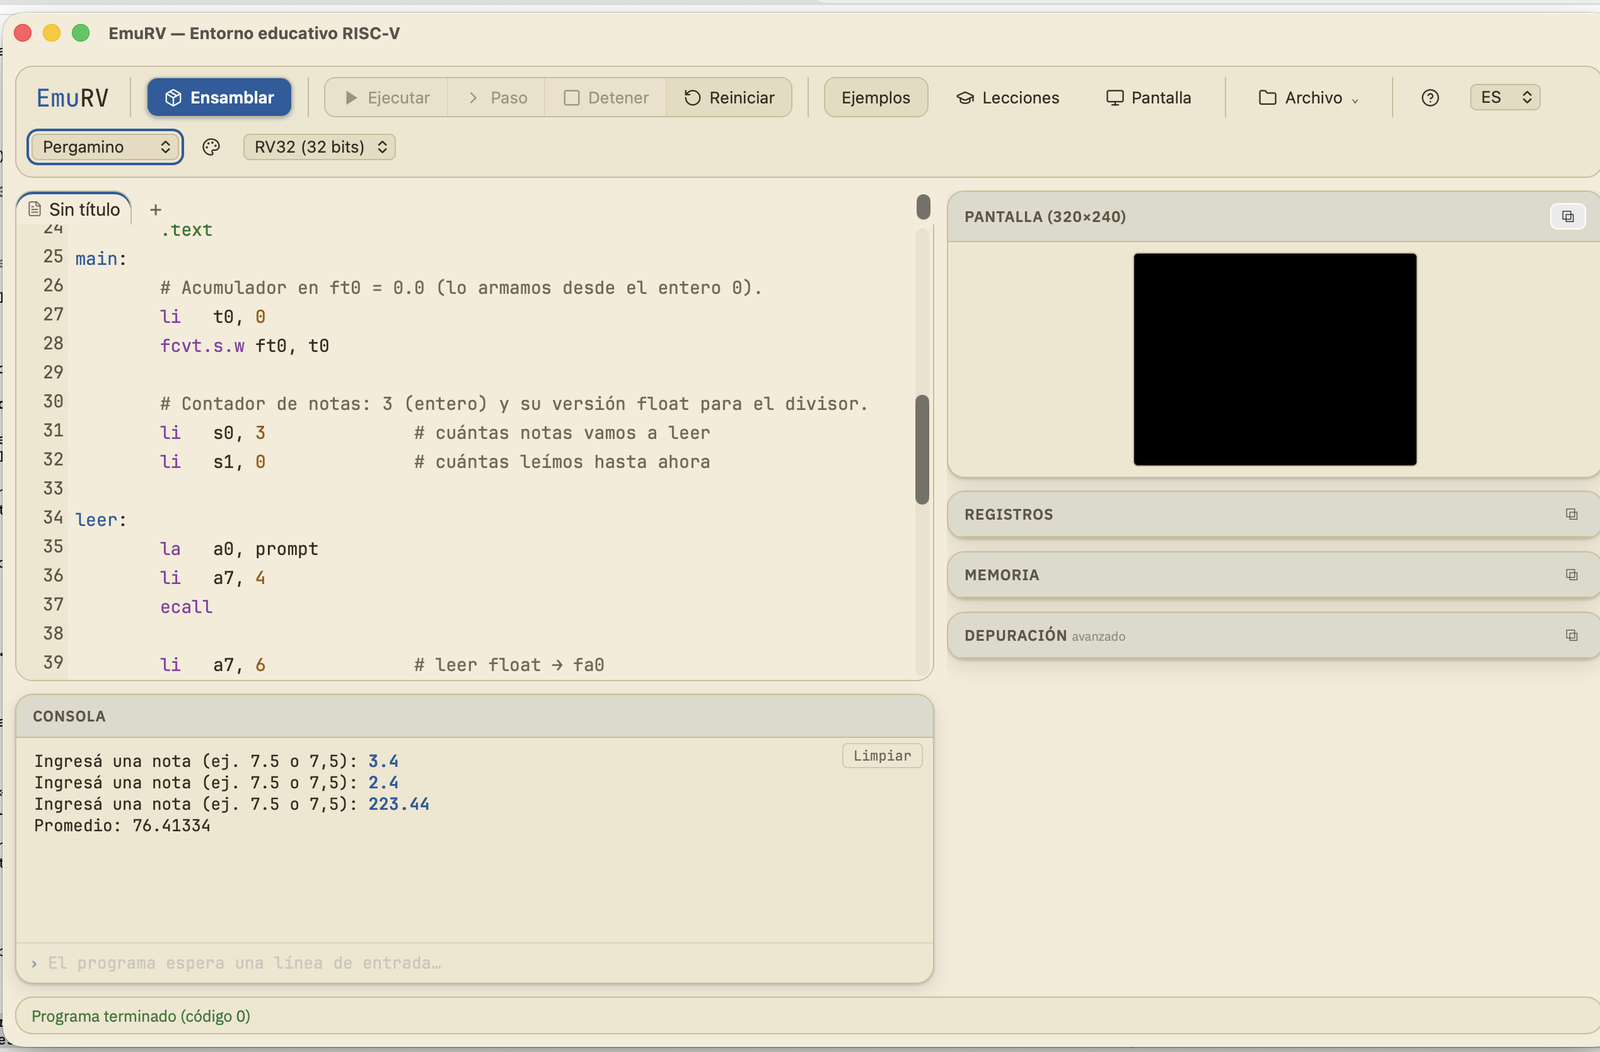
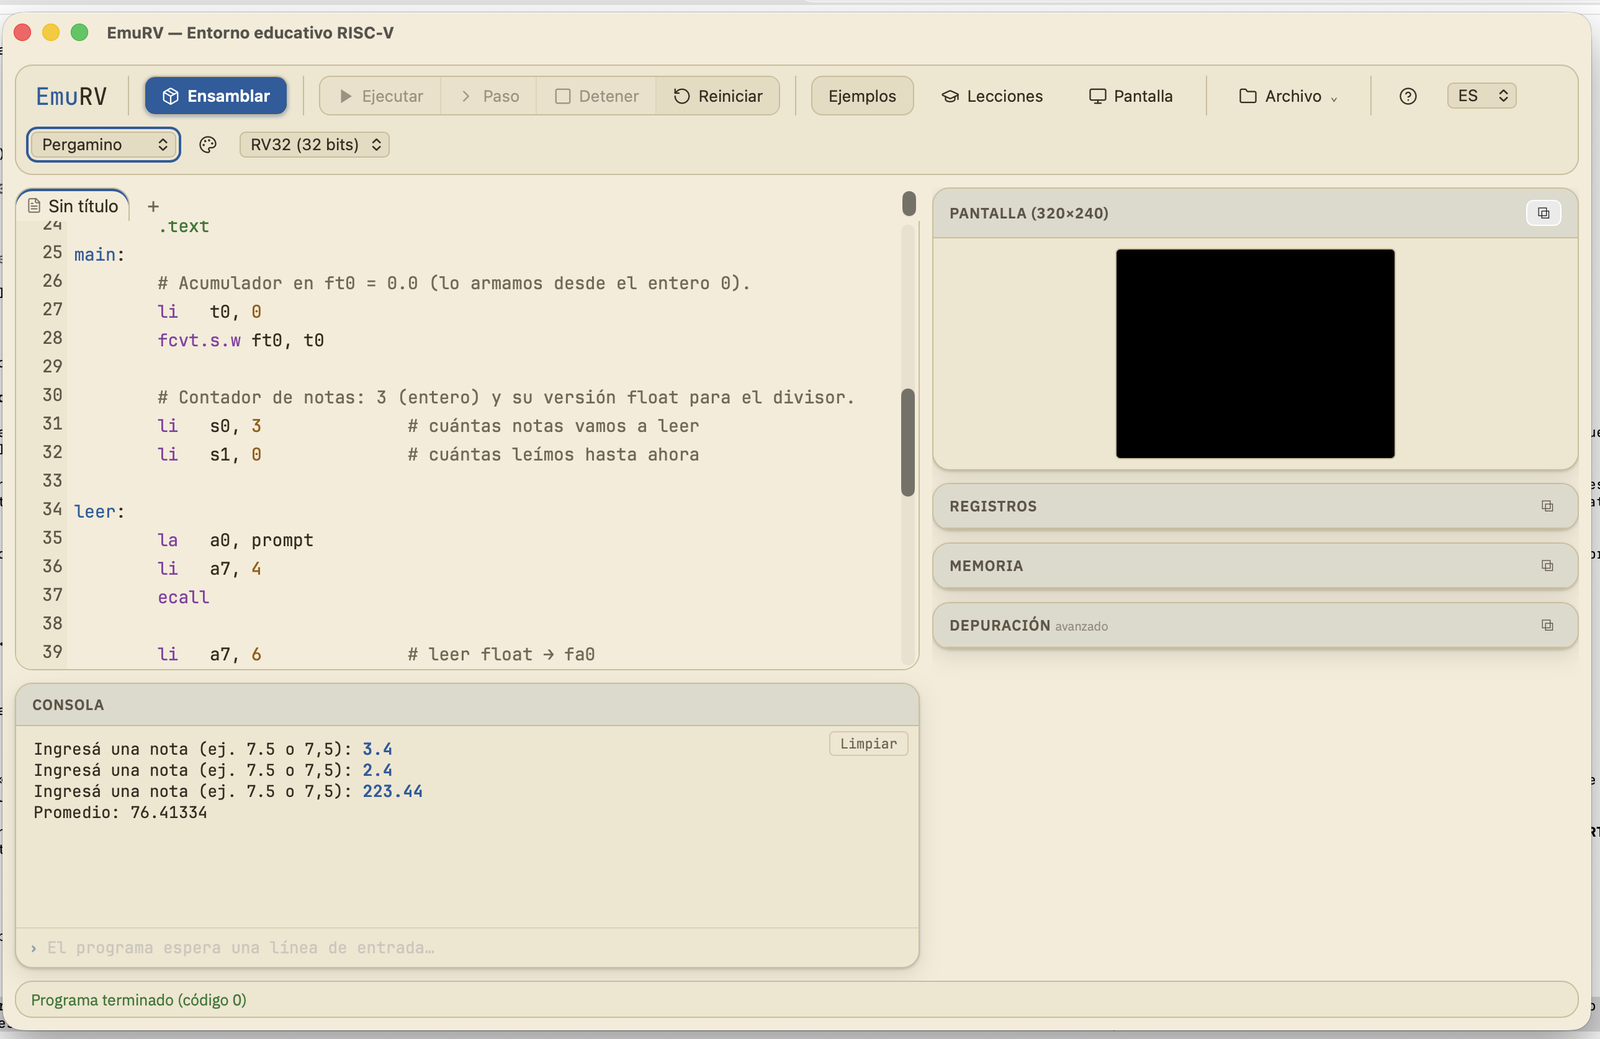
Agregar galería de capturas de la interfaz actual
Ocho capturas del build actual, recortadas a los límites de la ventana y
redimensionadas a 1600 px: portada, pantalla gráfica, lecciones, ejemplos,
memoria, paneles desacoplables y dos temas. Van dentro de un <details> para no
alargar el README.

Las tomas originales incluían otras ventanas en el fondo o en los bordes; el
recorte deja solo la aplicación.

diff --git a/README.md b/README.md
@@ -6,7 +6,38 @@ Entorno educativo de programación en ensamblador **RISC-V (RV32IM, conmutable a
 
 Prototipo técnico de TFG — FIUNI, Ingeniería en Computación.
 
-![EmuRV — editor, consola, panel de registros y pantalla gráfica](docs/capturas/hero-emurv.png)
+![EmuRV — editor, consola, registros y pantalla gráfica](docs/capturas/hero-emurv.png)
+
+<details>
+<summary>Más capturas</summary>
+
+**Pantalla gráfica** — Tetris corriendo sobre el framebuffer, dibujado desde ensamblador.
+
+![Pantalla gráfica con Tetris](docs/capturas/pantalla-grafica.png)
+
+**Lecciones** — diez lecciones guiadas, con lo que se aprende y qué paneles mirar en cada una.
+
+![Lecciones guiadas](docs/capturas/lecciones.png)
+
+**Ejemplos** — programas listos para cargar, de «Hola mundo» a Tetris en tiempo real.
+
+![Catálogo de ejemplos](docs/capturas/ejemplos.png)
+
+**Memoria** — vista navegable con accesos rápidos a `.text`, `.data` y la pila, y búsqueda por byte o texto.
+
+![Panel de memoria](docs/capturas/panel-memoria.png)
+
+**Paneles desacoplables** — cada panel puede salir a su propia ventana, sincronizada con la ejecución.
+
+![Registros en ventana aparte](docs/capturas/registros-ventana-aparte.png)
+
+**Temas** — la interfaz viene con varios temas; acá «Educativo» y «Retro Kawaii».
+
+![Tema Educativo](docs/capturas/tema-educativo.png)
+
+![Tema Retro Kawaii](docs/capturas/tema-retro-kawaii.png)
+
+</details>
 
 ## Características
 
